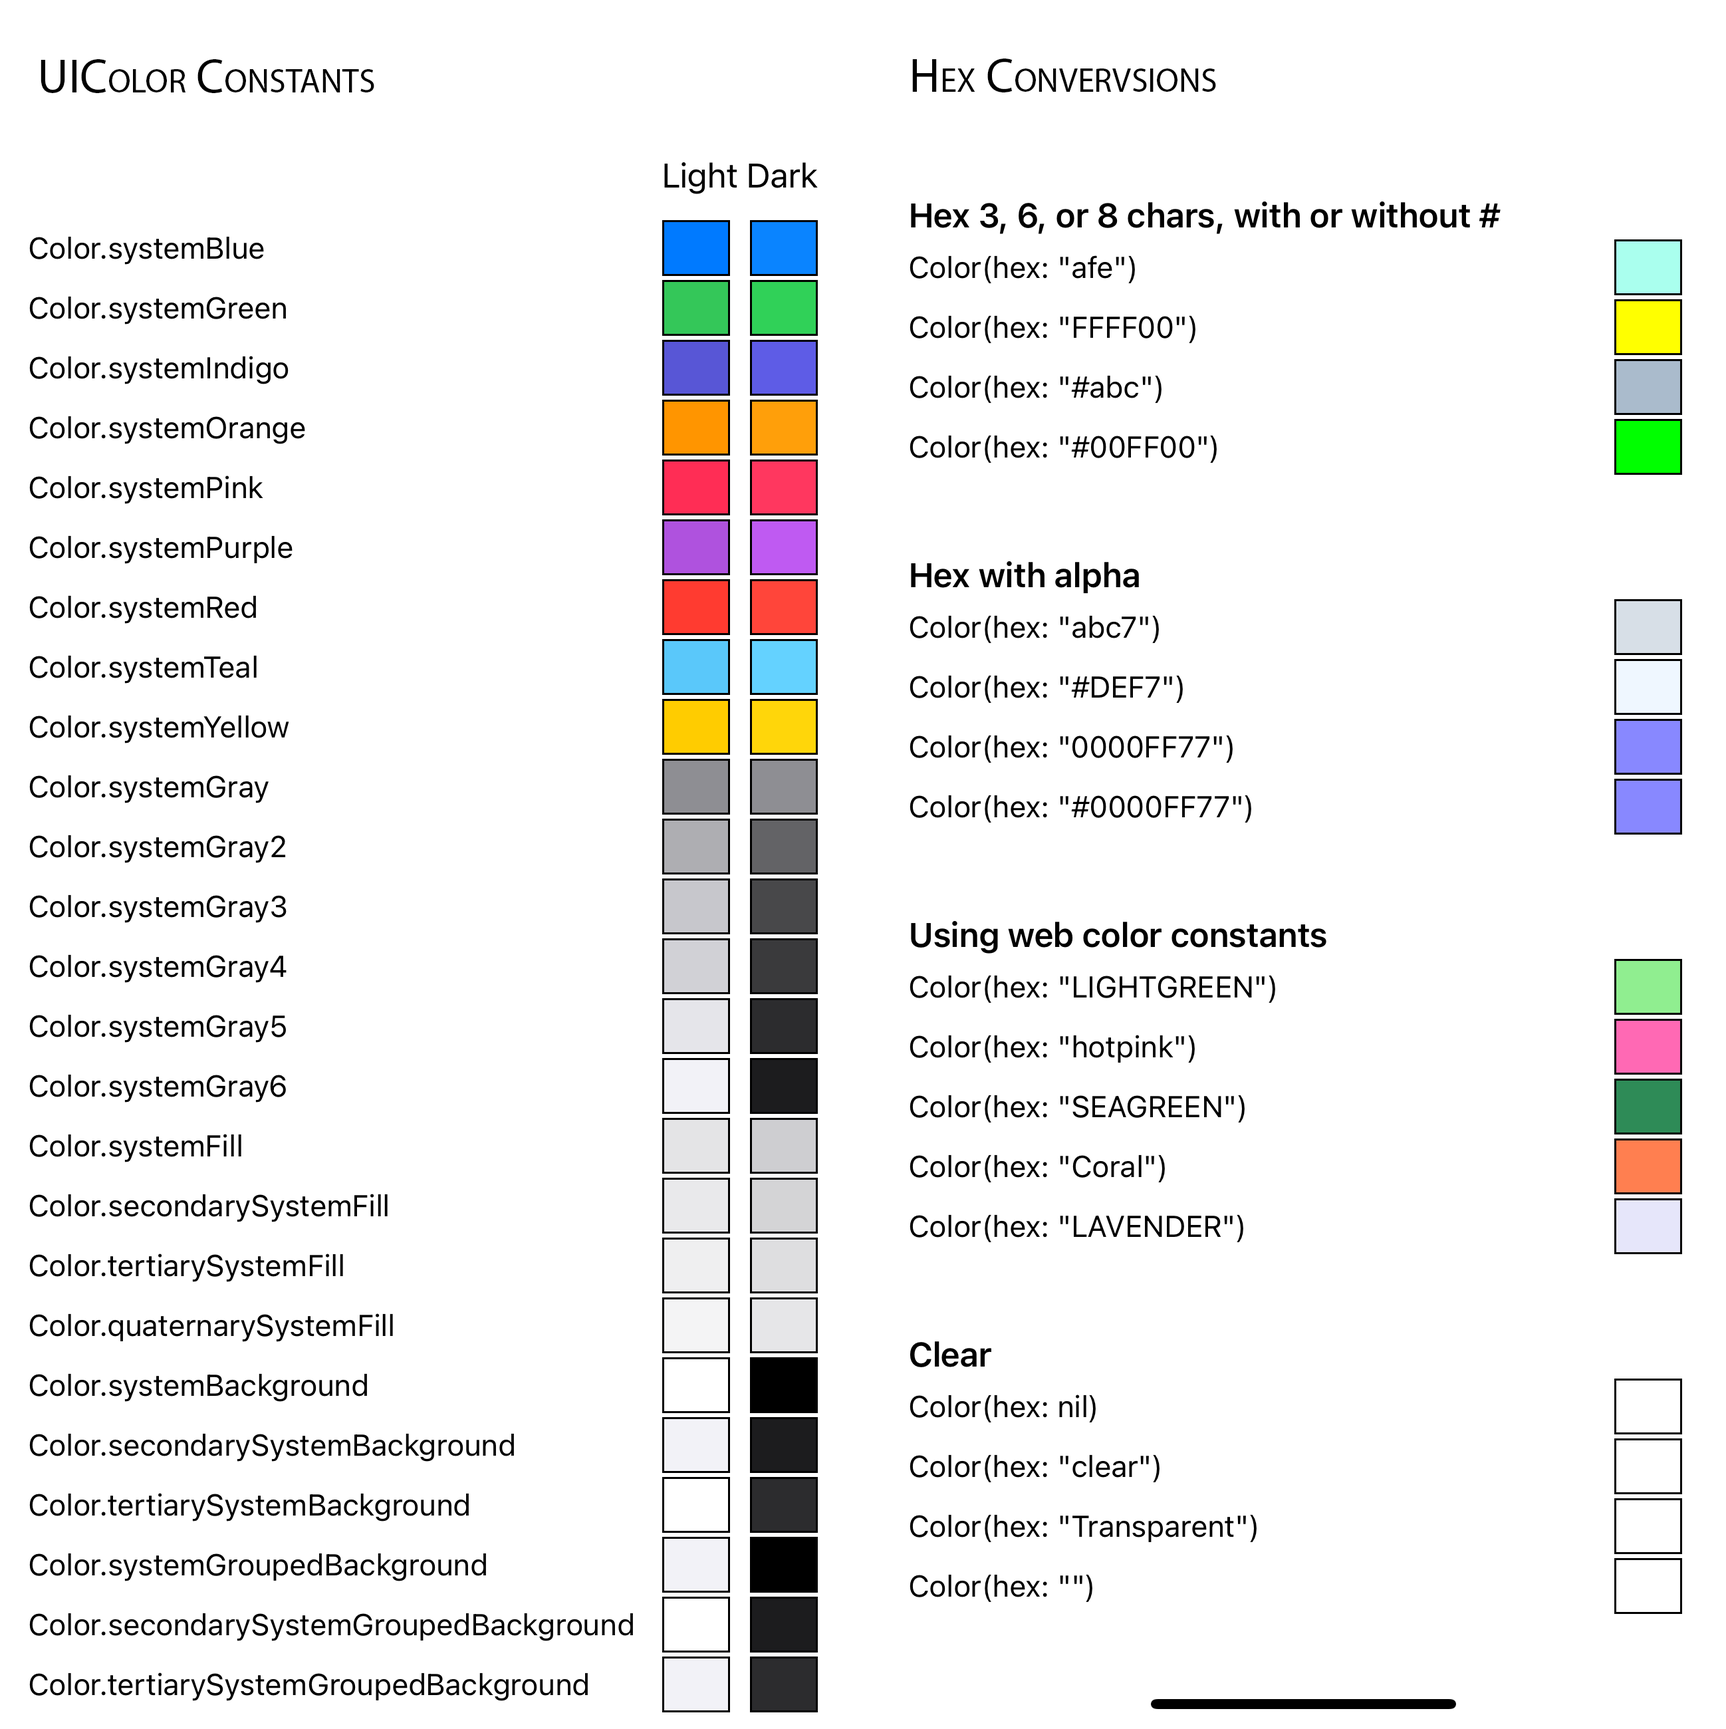
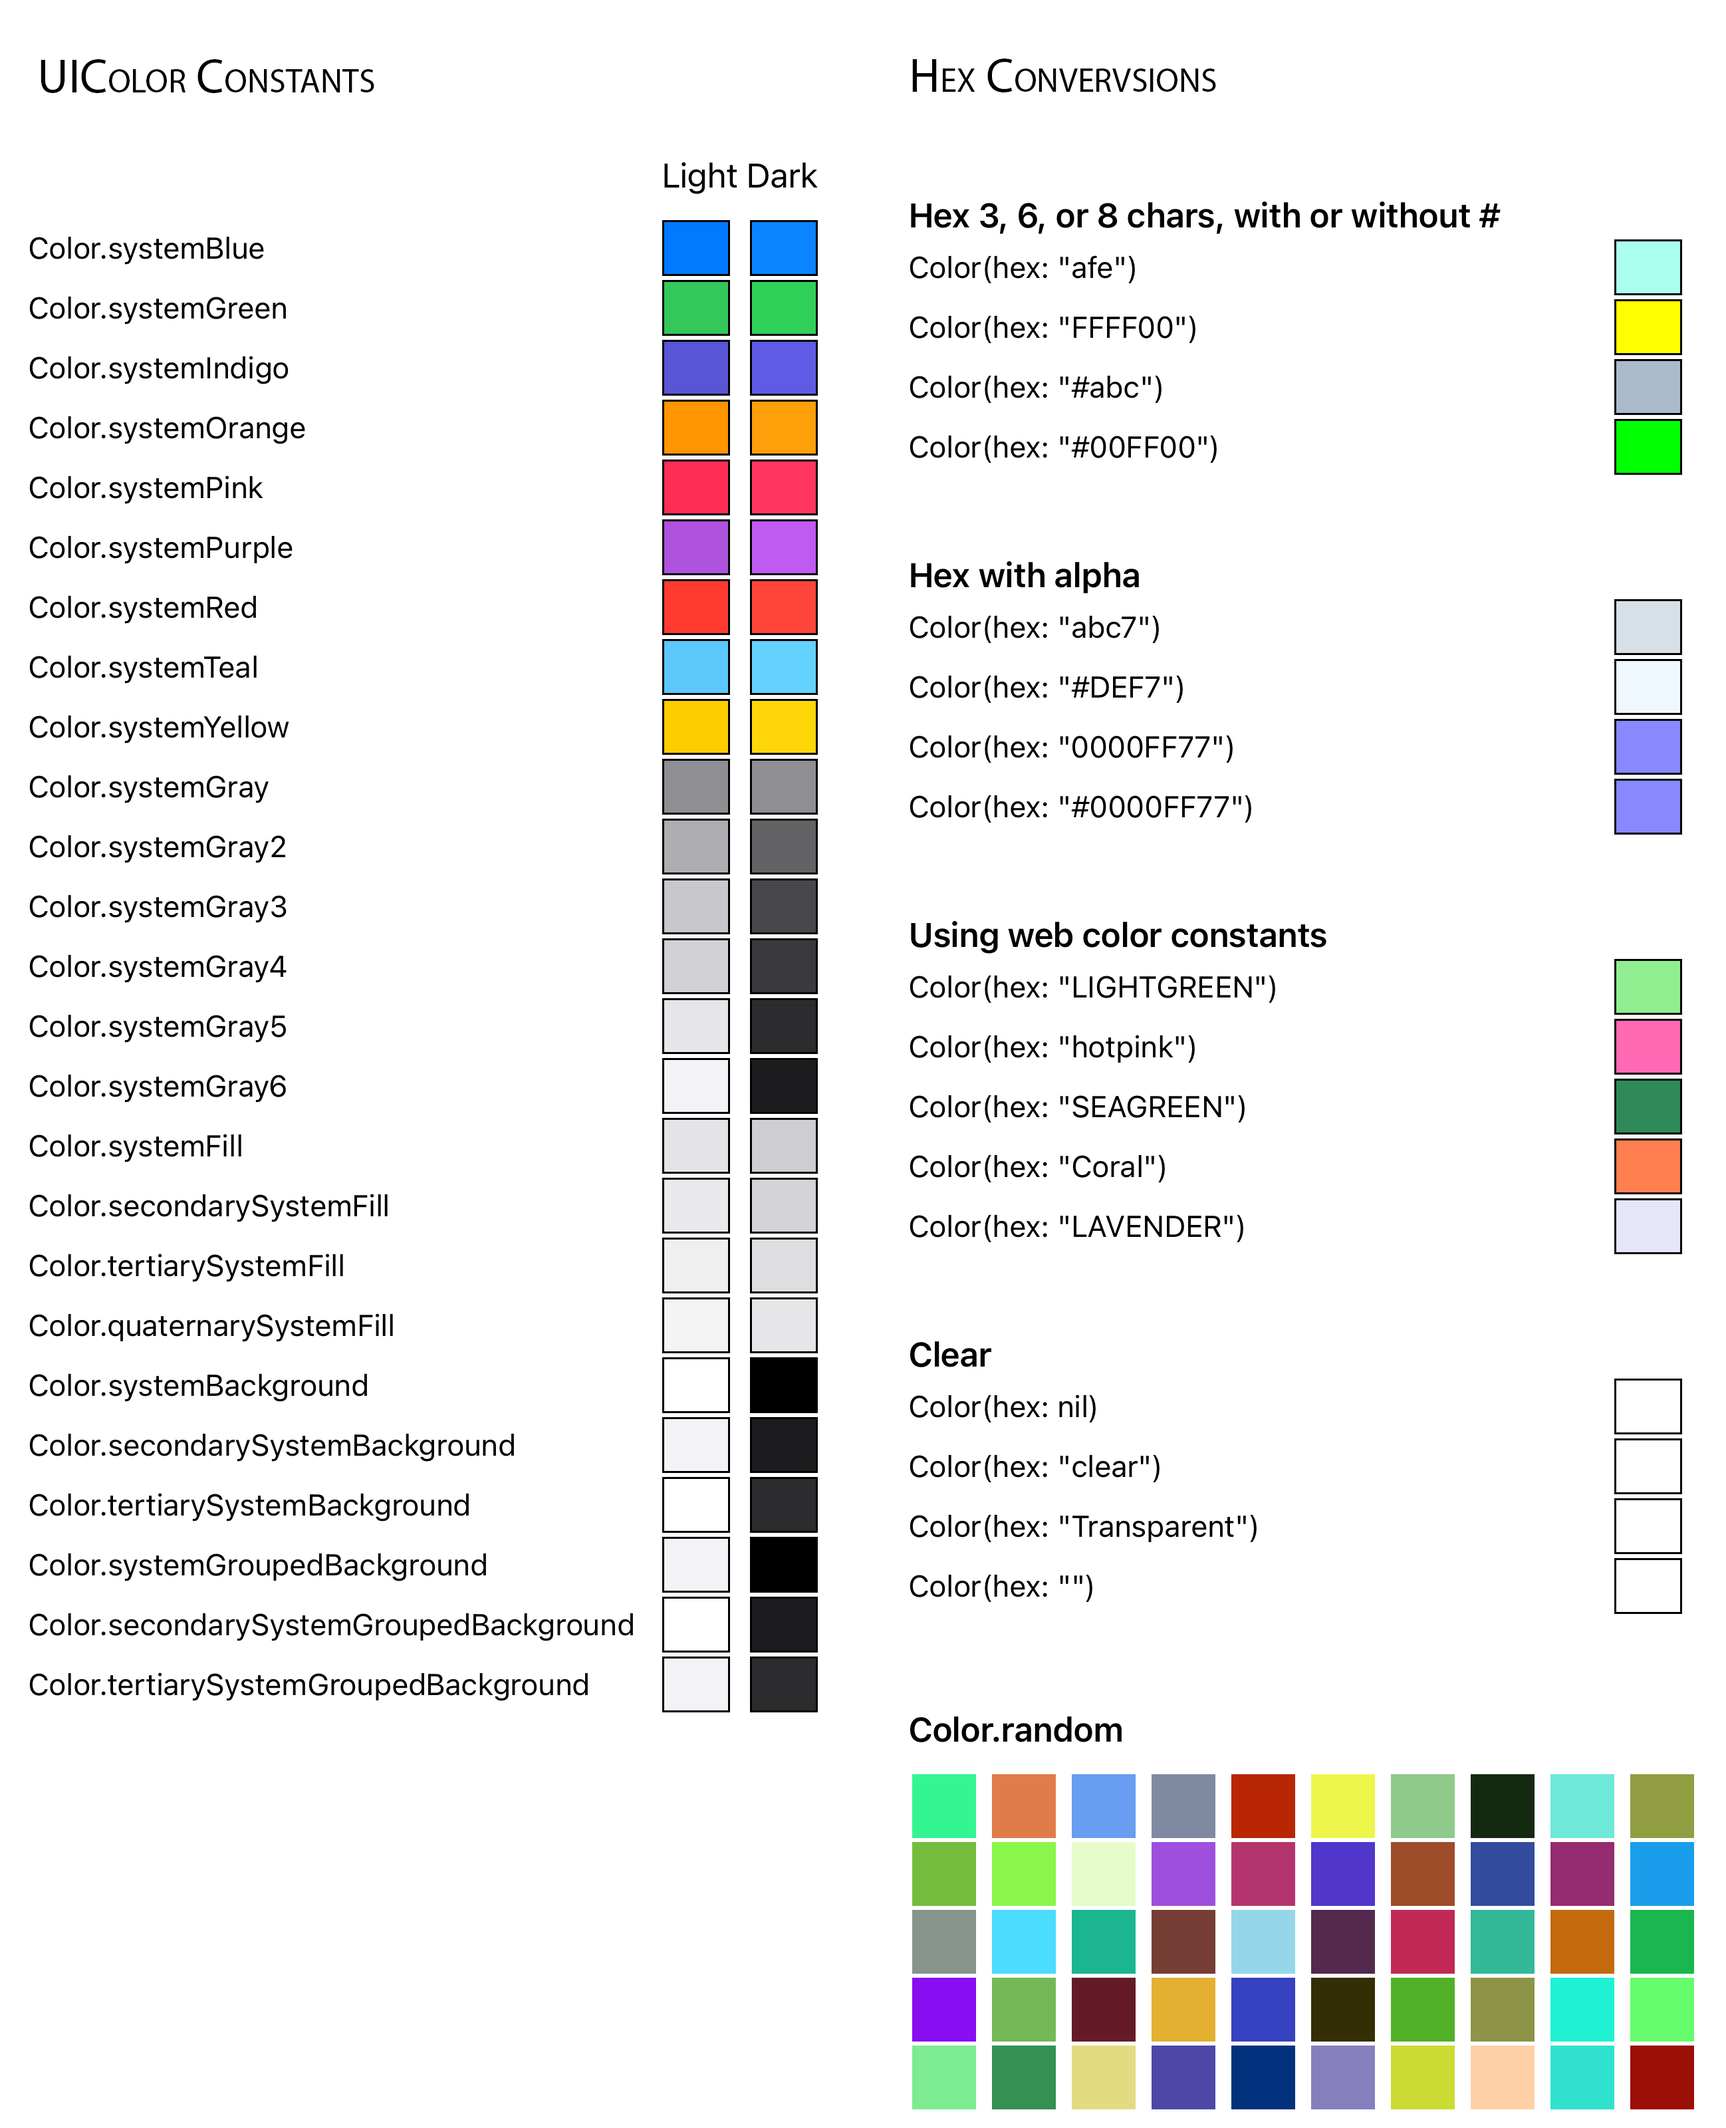
Updated README with Color.random and example project link.

diff --git a/README.md b/README.md
@@ -1,3 +1,5 @@
 # BlackLabsSwiftUIColor
 
+[Example project demonstrating usage.](https://github.com/nbasham/SwiftUIColors)
+
 ![Readme image](https://github.com/nbasham/BlackLabsSwiftUIColor/blob/main/SwiftUIColors.png?raw=true)
